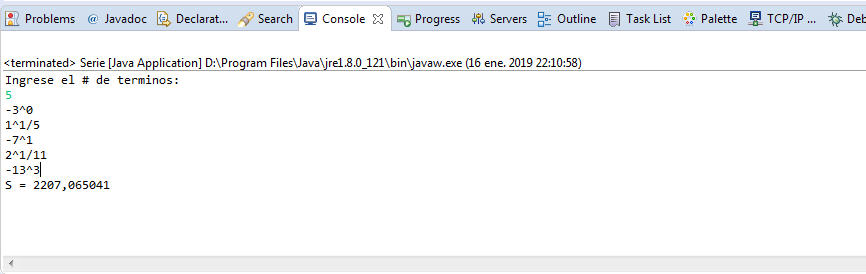
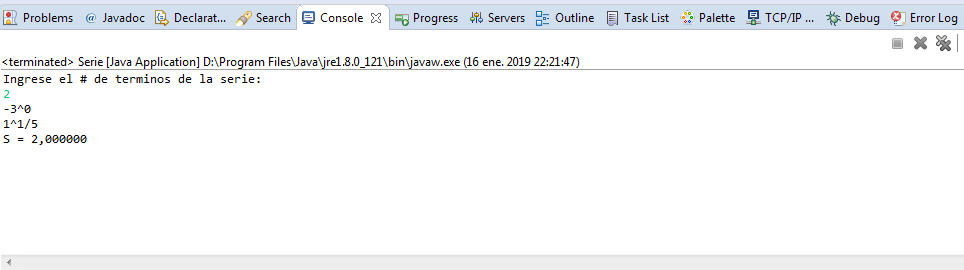
Modificación

Changed region(s): [[0.0, 0.0, 1.0, 0.2074], [0.0, 0.2074, 0.6859, 0.7111], [0.0, 0.9185, 1.0, 0.9778]]

diff --git a/Serie.java b/Serie.java
@@ -21,7 +21,7 @@ public class Serie {
 		int signo;
 		double suma;
 //		Captura de datos
-		System.out.println("Ingrese el # de terminos: ");
+		System.out.println("Ingrese el # de terminos de la serie: ");
 		limite=l.nextInt();
 //		calculos	
 		contador=0; primero=0; segundo=1; fibo=0; genNum=2; signo=-1; suma=0;
